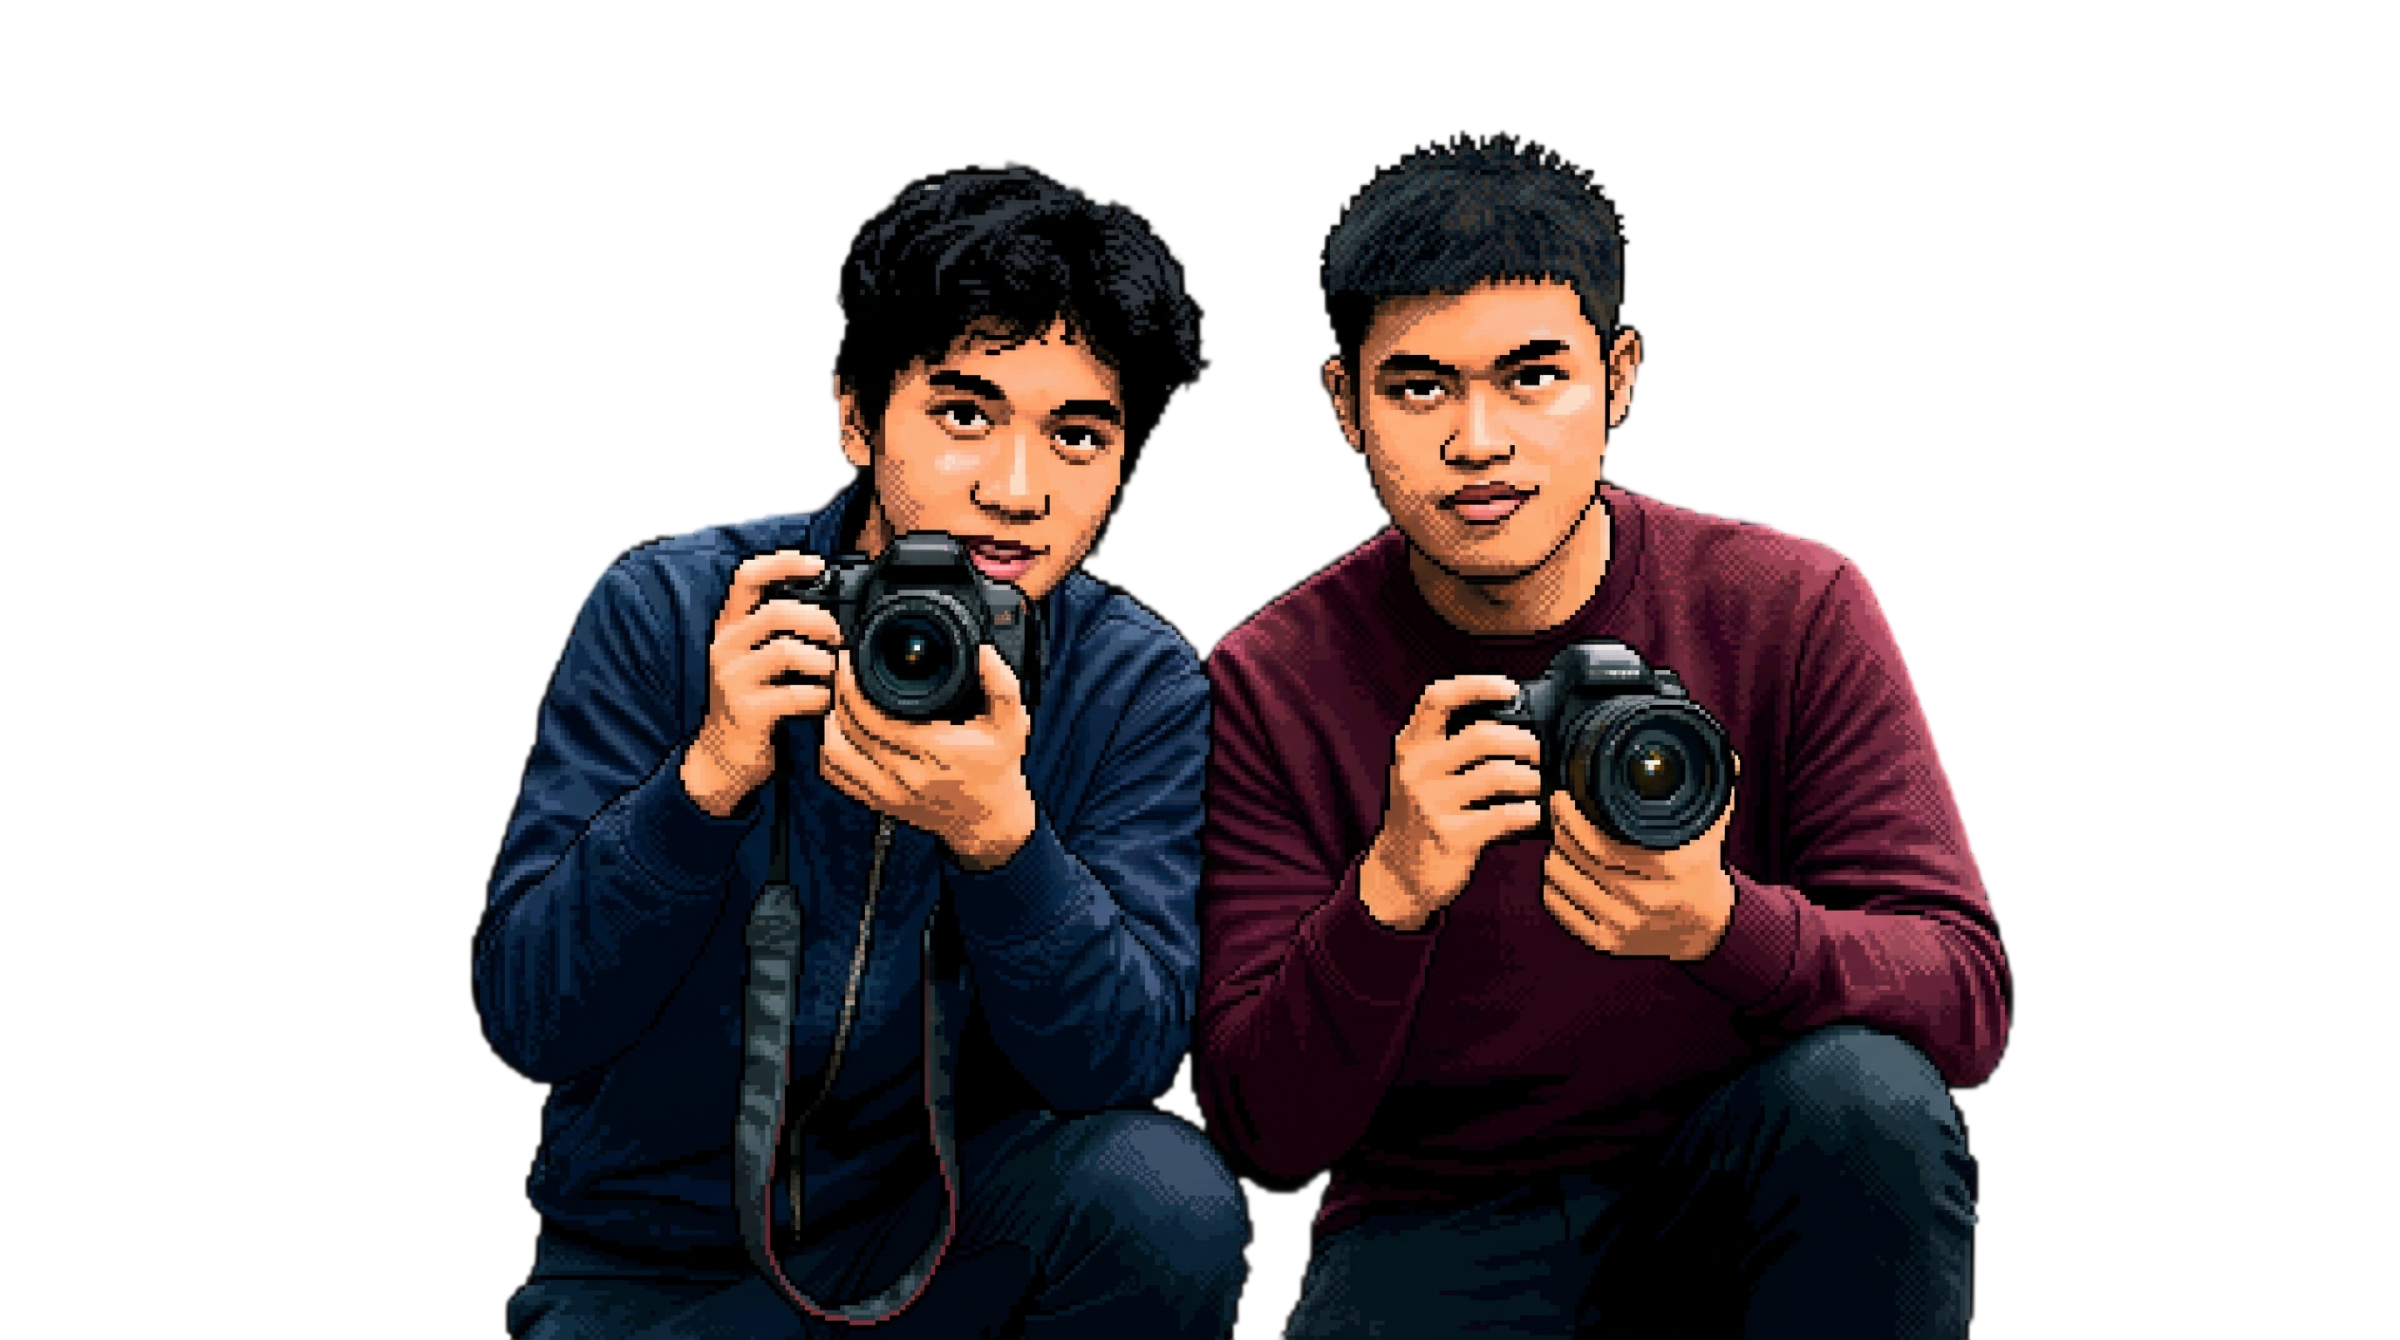
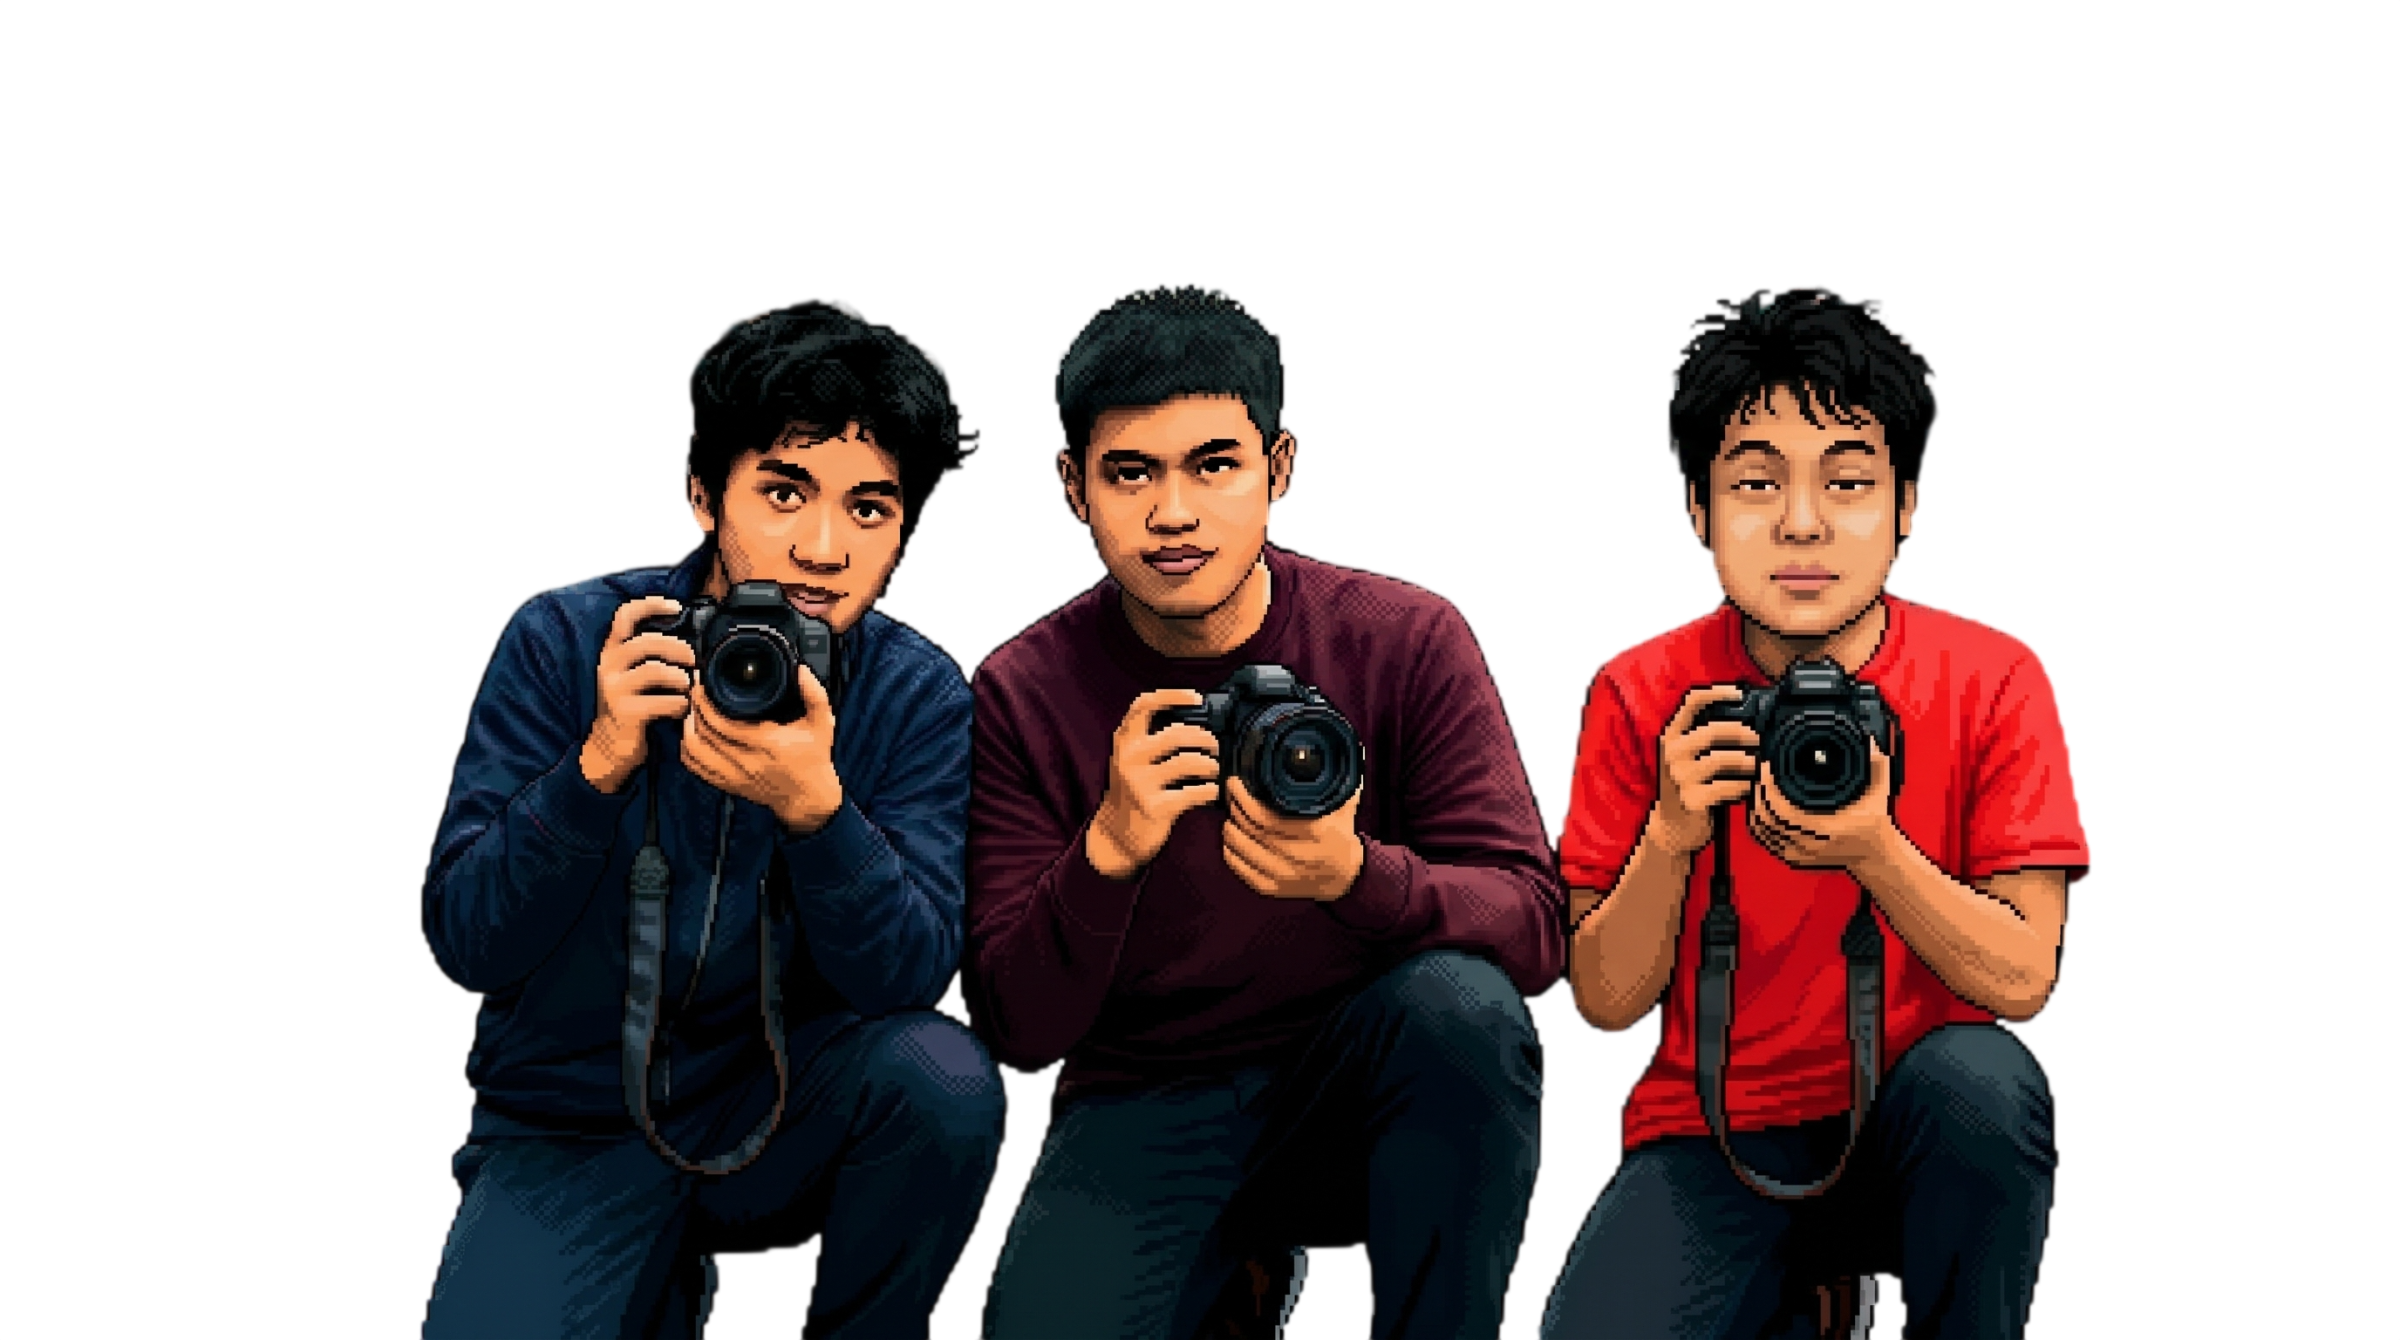
feat(landing): update Subtitute_NeedOurHelp image with 3 photographers and refine desktop/ipad responsive sizing

diff --git a/frontend/components/LandingPage.jsx b/frontend/components/LandingPage.jsx
@@ -864,7 +864,7 @@ export default function LandingPage({ onNavigateAuth }) {
               unoptimized
               loading="lazy"
               decoding="async"
-              className="w-[460px] sm:w-[540px] md:w-[620px] lg:w-[700px] xl:w-[780px] max-h-[38vh] sm:max-h-[40vh] md:max-h-[42vh] h-auto object-contain select-none translate-y-[2px] filter drop-shadow-[0_15px_30px_rgba(0,0,0,0.15)]"
+              className="w-[500px] sm:w-[580px] md:w-[680px] lg:w-[780px] xl:w-[880px] 2xl:w-[940px] max-h-[38vh] sm:max-h-[42vh] md:max-h-[45vh] h-auto object-contain select-none translate-y-[2px] filter drop-shadow-[0_15px_30px_rgba(0,0,0,0.15)]"
               draggable={false}
             />
           </div>
